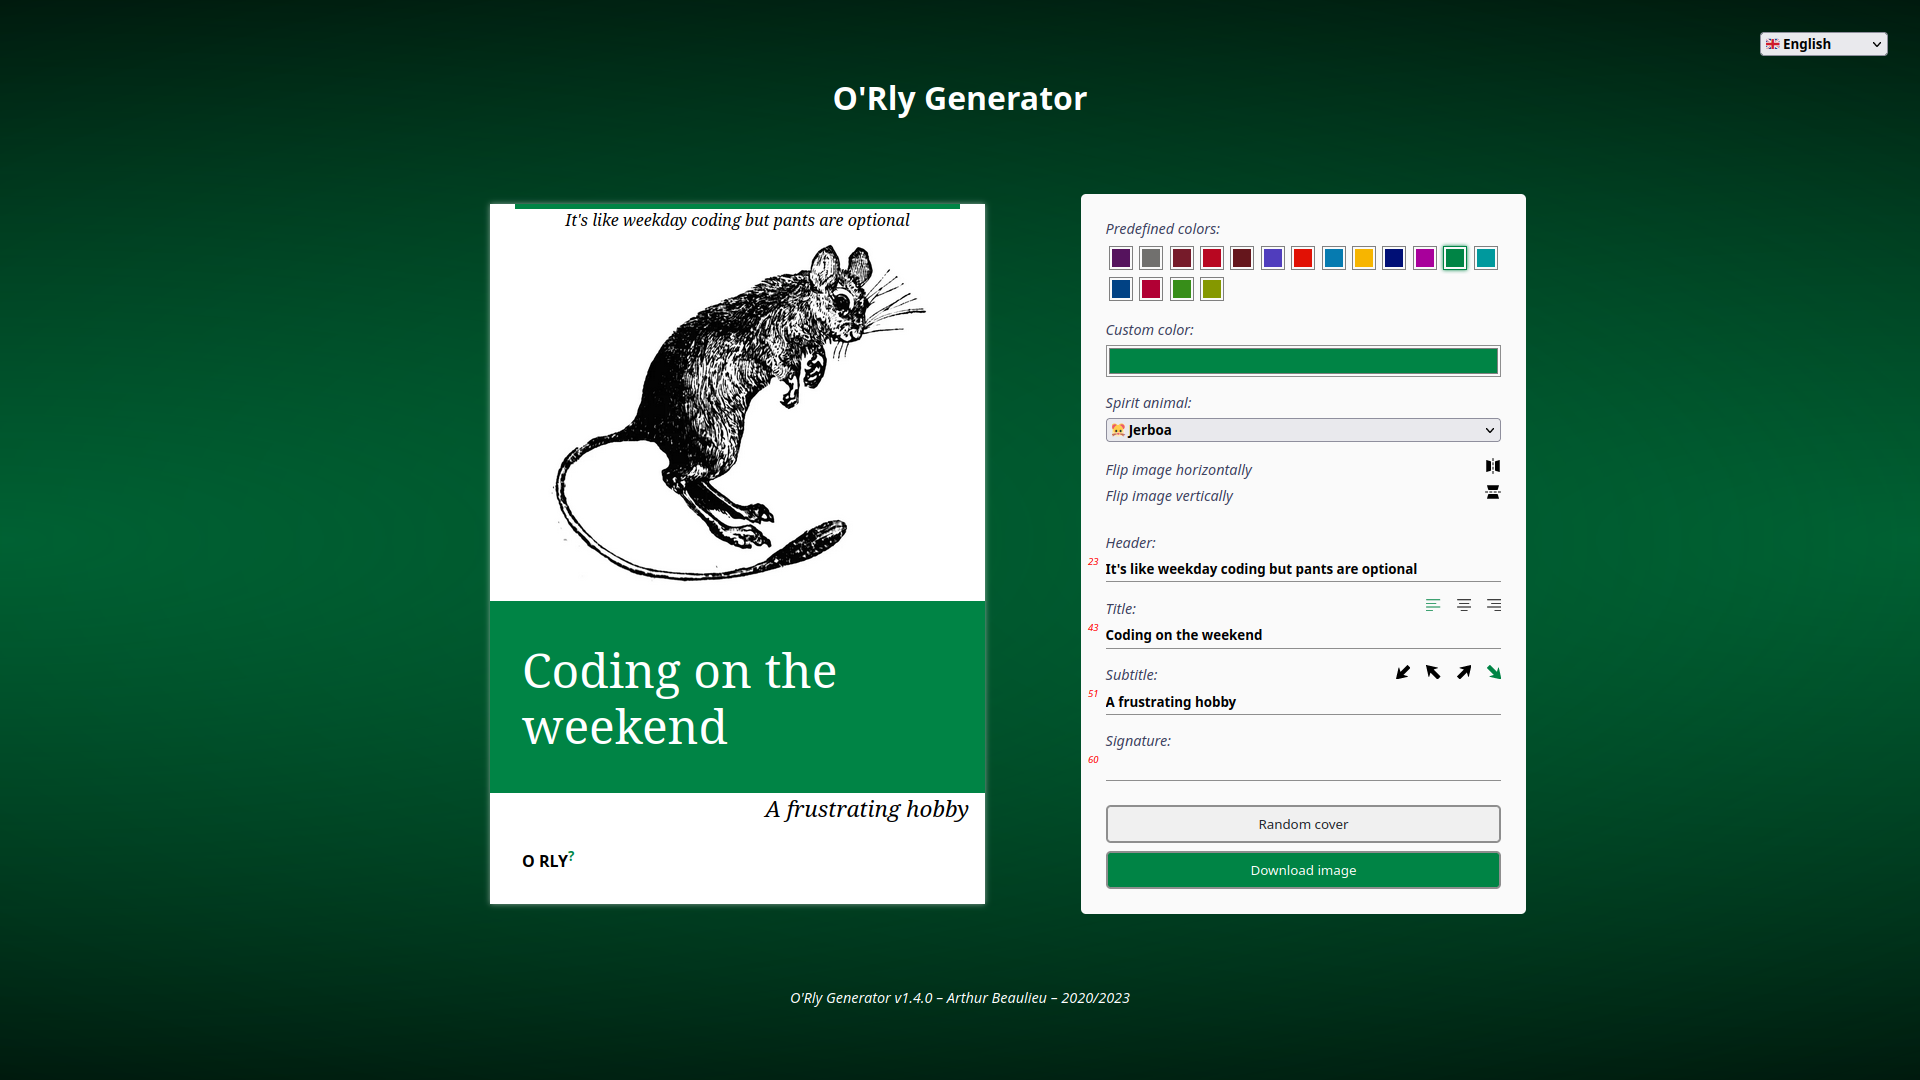
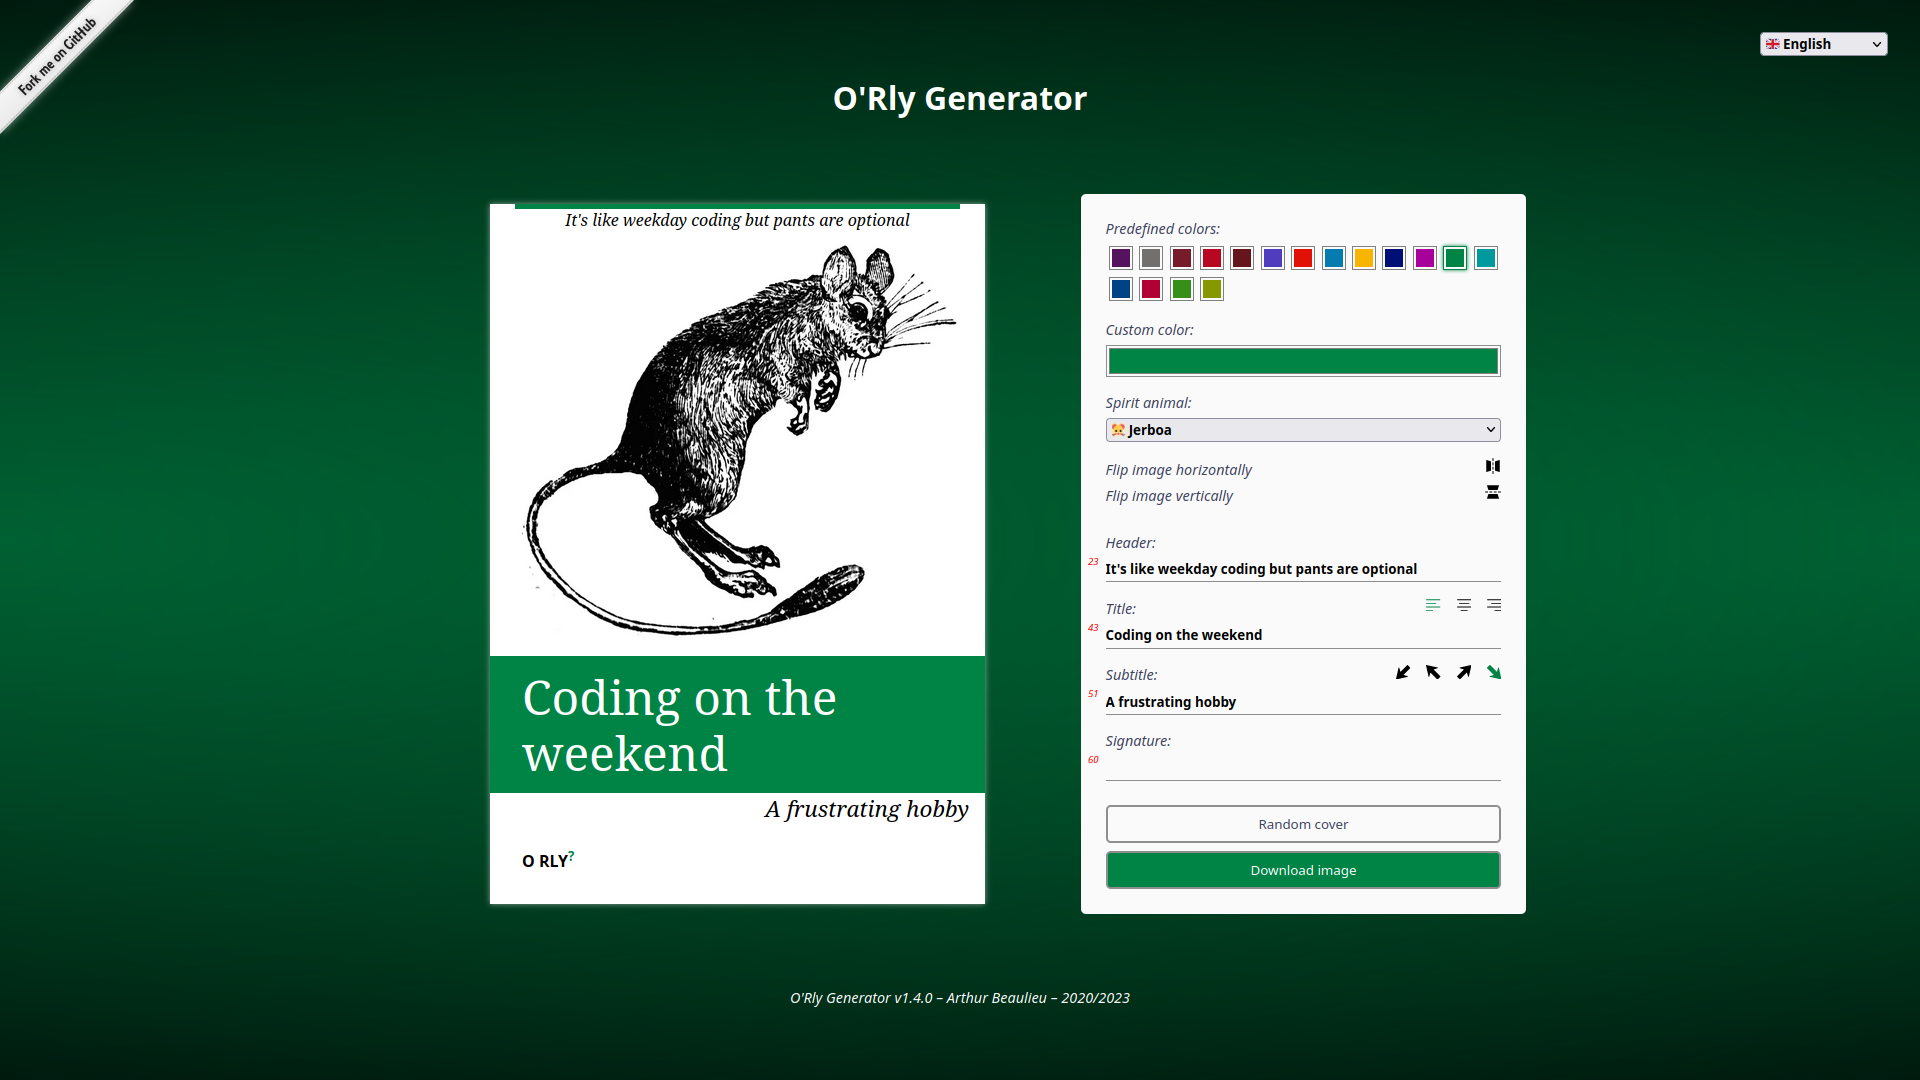
feat: add gh ribbon again

Changed region(s): [[0.25, 0.2139, 0.5312, 0.7333], [0.0, 0.0, 0.0625, 0.1222]]

diff --git a/index.html b/index.html
@@ -15,6 +15,8 @@
 <!--  Arthur Beaulieu                         -->
 <!--  Version 1.4.0                           -->
 <body>
+<!-- GH ribbon -->
+<a href="https://github.com/ArthurBeaulieu/ORlyGenerator" target="_blank" rel="noopener noreferrer" style="position:absolute;left:0;top:0"><img decoding="async" width="149" height="149" src="./assets/forkme.webp" class="attachment-full size-full" alt="Fork me on GitHub" loading="lazy" data-recalc-dims="1"></a>
 <!-- Language selection -->
 <select id="lang-select" class="lang-select" name="lang-select">
   <option value="en">{{L_EN}}</option>

diff --git a/css/orlygenerator.css b/css/orlygenerator.css
@@ -338,12 +338,9 @@ button:hover {
     text-align: center;
   }
 
-  a { /* Hide GitHub ribbon */
-    display: none;
-  }
-
   h1 {
     padding: 0 var(--padding);
+    margin-top: 3rem; /* So it don't overlap with select lang */
   }
 
   .content-wrapper {
